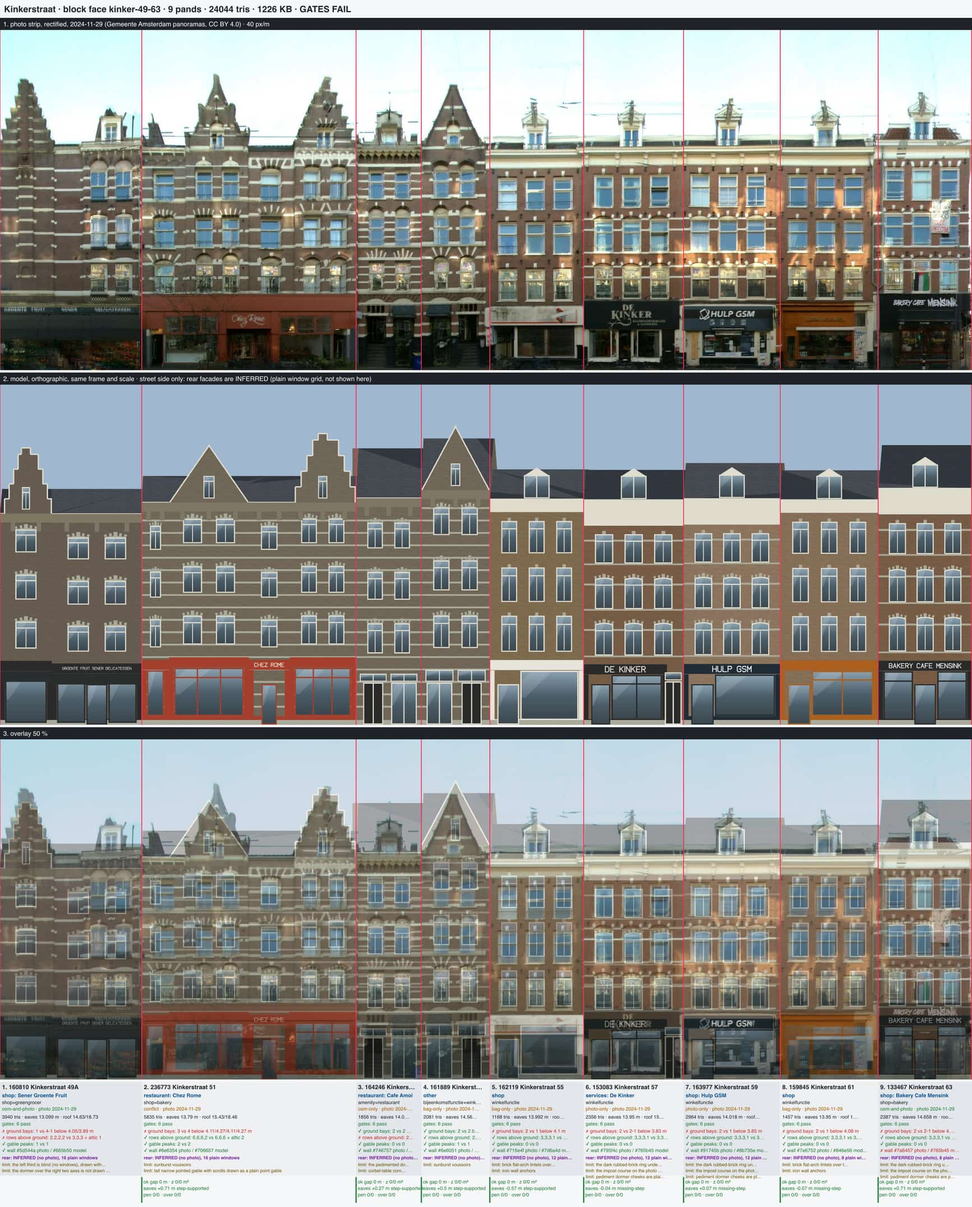
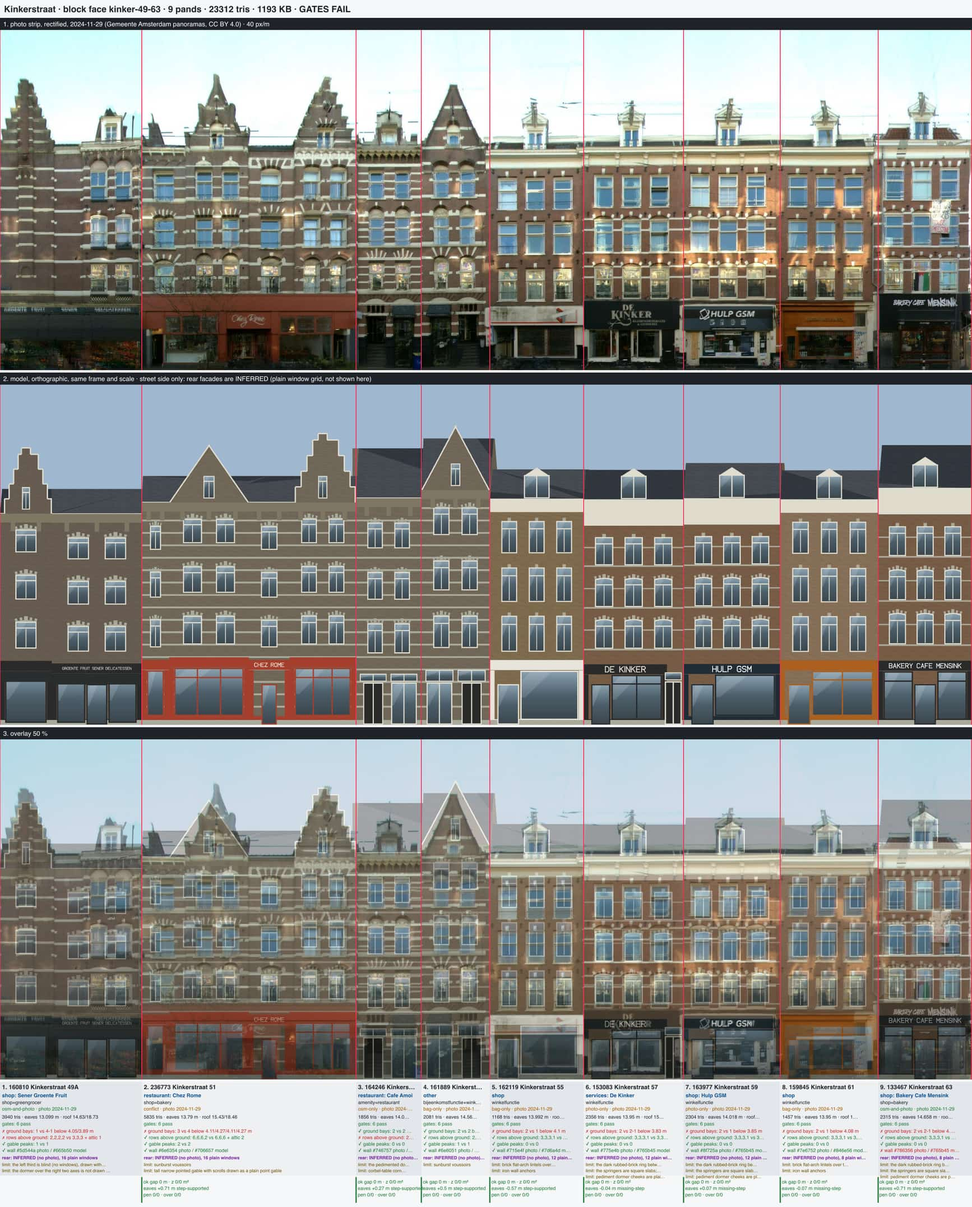
Kinkerstraat odd faces on the accents kit: 59 keeps the type palette, sheets re-rendered
After merging the white-courses/springers pass, Kinkerstraat 59 (163977,
brick-arched) drew 3,036 tris on its front with the measured-brick facing;
it keeps the type palette (wall check passes). All eight odd faces
recompiled and re-reviewed; tables and totals updated (184,519 tris).

diff --git a/docs/kinkerstraat-faces-odd-20261014.md b/docs/kinkerstraat-faces-odd-20261014.md
@@ -9,13 +9,13 @@ OSM and BAG uses from each face's `uses.json`. Every face was compiled with `com
 |---|---|---|---|---|---|
 | kinker-1-29 | 11 | 24,700 | 2024-12-11 | plain-brick 7, 1985-infill 1 | `kinker-1885-wall-dormer` (19, 21, 23) |
 | kinker-31-49 | 10 | 15,698 | 2024-12-11 | plain-brick 9, neo-renaissance 1 | - |
-| kinker-49-63 | 9 | 24,044 | 2024-11-29 | neo-renaissance 4, plain-brick 2, brick-arched 3 | - |
-| kinker-65-87 | 10 | 21,175 | 2024-11-29 | plain-brick 7, painted-band 1 | `kinker-1893-plain-step-gable` (65, 67) |
+| kinker-49-63 | 9 | 23,312 | 2024-11-29 | neo-renaissance 4, plain-brick 2, brick-arched 3 | - |
+| kinker-65-87 | 10 | 20,311 | 2024-11-29 | plain-brick 7, painted-band 1 | `kinker-1893-plain-step-gable` (65, 67) |
 | kinker-173-225 | 10 | 29,517 | 2024-12-11 | 1985-infill 10 | - |
 | kinker-315-359 | 19 | 42,735 | 2024-12-11 | 1902-balcony-axis 18, 1985-infill 1 | - |
 | kinker-363-371 | 4 | 13,706 | 2024-12-11 | 1902-balcony-axis 4 (flat heads) | - |
 | kinker-265-313 | 3 | 14,540 | 2024-12-11 | 1985-infill 3 (bay unit as overrides) | - |
-| **total** | **76** | **186,115** | | | |
+| **total** | **76** | **184,519** | | | |
 
 Gates and interference pass on all eight faces. The GLB audit's z-fight check fails on every Kinkerstraat face,
 including the two proof faces at current main (2-30: 115 m², 109-161: 148 m² coplanar): the overlap is in the INFERRED
@@ -41,8 +41,8 @@ that audit line.
 - **Wall colour**: `palette-from-strip.ts` per pand; where the type palette was more than 24 (sum of RGB) off, the
   measured brick goes in `overrides.palette.brick` (a 3 cm facing). The render lifts and saturates: where the first
   review missed, the input was compensated by the photo-minus-model difference (31, 33, 45, 47, 49, 173-225, 315-319,
-  363-371). The facing roughly doubles a front's triangles (23: 2,300 → 4,048), so four pands keep the type palette to
-  stay under the 3,000-per-front budget (23, 57, 63, 69-73).
+  363-371). The facing roughly doubles a front's triangles (23: 2,300 → 4,048), so five pands keep the type palette to
+  stay under the 3,000-per-front budget (23, 57, 59, 63, 69-73; 59 since the accents pass added white courses and springers to brick-arched).
 - **Cornices** measured on the strip (`measuredEaves` with `frontRoof`) where 3DBAG eaves read a mansard or a rear roof
   (51, 69-73, 75-87, 323-357, 367-371); 1-29, 31-49, 49-63 and 65-87 use recipe roofs at 30° so 3DBAG pyramids and
   mansards do not stand over the cornice line; 173-225 keeps the 3DBAG roof as the set-back storey's mass.
@@ -72,7 +72,7 @@ that audit line.
 | Projecting cream penthouse bays (red panel, grey ledge) | 5 | 179-181, 185, 189-207, 209-211, 213-225 |
 | Centre brick wall dormer through the cornice (no library crown) | 5 | 19, 21, 23 (inline type), 49 corner, 87 |
 | Brick look clamps colour: black paint lifts to olive, sunlit light brick darkens, light walls saturate | 4 | 31, 47, 63, 87 (wall check fails) |
-| Per-front facing doubles triangles: measured brick dropped for the budget | 4 | 23, 57, 63, 69-73 |
+| Per-front facing doubles triangles: measured brick dropped for the budget | 5 | 23, 57, 59, 63, 69-73 |
 | Pair gable over two pands (one gable per front instead) | 4 | 331+333, 343+345 |
 | Sunburst voussoirs | 3 | 51, 53, 53A |
 | Dormers on the neo-renaissance type (no dormer crown) | 3 | 49A, 53, 49 corner side dormers |
@@ -140,7 +140,7 @@ Limitations (in the intent): Iron wall anchors on every 1883-1885 front (no kit 
 
 Limitations (in the intent): Kinkerstraat 31: black paint (painted-band type has no crown without a dormer; a placement cannot change the wall material). Drawn as dark brick; Kinkerstraat 33: plain flat-topped box dormer with a white frame drawn as the type pediment dormer (plain-brick has no plain-dormer crown); Kinkerstraat 49: centre brick wall dormer with a flat cap between two small dormers; not drawn (neo-renaissance has no wall-dormer crown); Iron wall anchors; tall carved keystones drawn as plain keystone blocks.
 
-### kinker-49-63 (9 pands, 24,044 tris, gates pass)
+### kinker-49-63 (9 pands, 23,312 tris, gates pass)
 
 ![kinker-49-63](images/kinkerstraat/kinker-49-63-sheet.jpg)
 
@@ -151,14 +151,14 @@ Limitations (in the intent): Kinkerstraat 31: black paint (painted-band type has
 | 164246 | Kinkerstraat 53 | kinker-1886-neo-renaissance (none) | Cafe Amoi (amenity=restaurant), osm-only | #746757 / #706658 | read; pediment dormer and corbel cornice missing. |
 | 161889 | Kinkerstraat 53A | kinker-1886-neo-renaissance (point-gable) | other, bag-only | #6e6051 / #706658 | right. |
 | 162119 | Kinkerstraat 55 | kinker-1890-plain-brick (pediment-dormer) | shop, bag-only | #715e4f / #7d6a4d | right. |
-| 153083 | Kinkerstraat 57 | kinker-1890-brick-arched (pediment-dormer) | De Kinker, photo-only | #795f4c / #765b45 | right; frieze consoles missing. |
-| 163977 | Kinkerstraat 59 | kinker-1890-brick-arched (pediment-dormer) | Hulp GSM, photo-only | #91745b / #8b735e | right. |
+| 153083 | Kinkerstraat 57 | kinker-1890-brick-arched (pediment-dormer) | De Kinker, photo-only | #775e4b / #765b45 | right; frieze consoles missing. |
+| 163977 | Kinkerstraat 59 | kinker-1890-brick-arched (pediment-dormer) | Hulp GSM, photo-only | #8f725a / #765b45 | right. |
 | 159845 | Kinkerstraat 61 | kinker-1890-plain-brick (pediment-dormer) | shop, bag-only | #7e6752 / #846e56 | right. |
-| 133467 | Kinkerstraat 63 | kinker-1890-brick-arched (pediment-dormer) | Bakery Cafe Mensink (shop=bakery), osm-and-photo | #7a6457 / #765b45 ✗ too saturated (+0.09) | read; wall slightly too saturated (FAIL +0.09 sat) - facing would break 3000-tri budget. |
+| 133467 | Kinkerstraat 63 | kinker-1890-brick-arched (pediment-dormer) | Bakery Cafe Mensink (shop=bakery), osm-and-photo | #786356 / #765b45 ✗ too saturated (+0.10) | read; wall slightly too saturated (FAIL +0.09 sat) - facing would break 3000-tri budget. |
 
 Limitations (in the intent): Sunburst voussoirs (radiating white blocks) over the storey-1 windows of 51-53A: drawn as blocked arches; 49A: blind brick pier with its own stepped gable over the left third; drawn as a one-axis module; 51: gable scrollwork and finials on the pointed and stepped gables; 53: pedimented dormer and 49A dormer on the neo-renaissance type (no dormer crown variant); 53/53A: corbel-table cornice; stoops up to the house doors (groundFront has no stoop on a wall ground).
 
-### kinker-65-87 (10 pands, 21,175 tris, gates pass)
+### kinker-65-87 (10 pands, 20,311 tris, gates pass)
 
 ![kinker-65-87](images/kinkerstraat/kinker-65-87-sheet.jpg)
 
